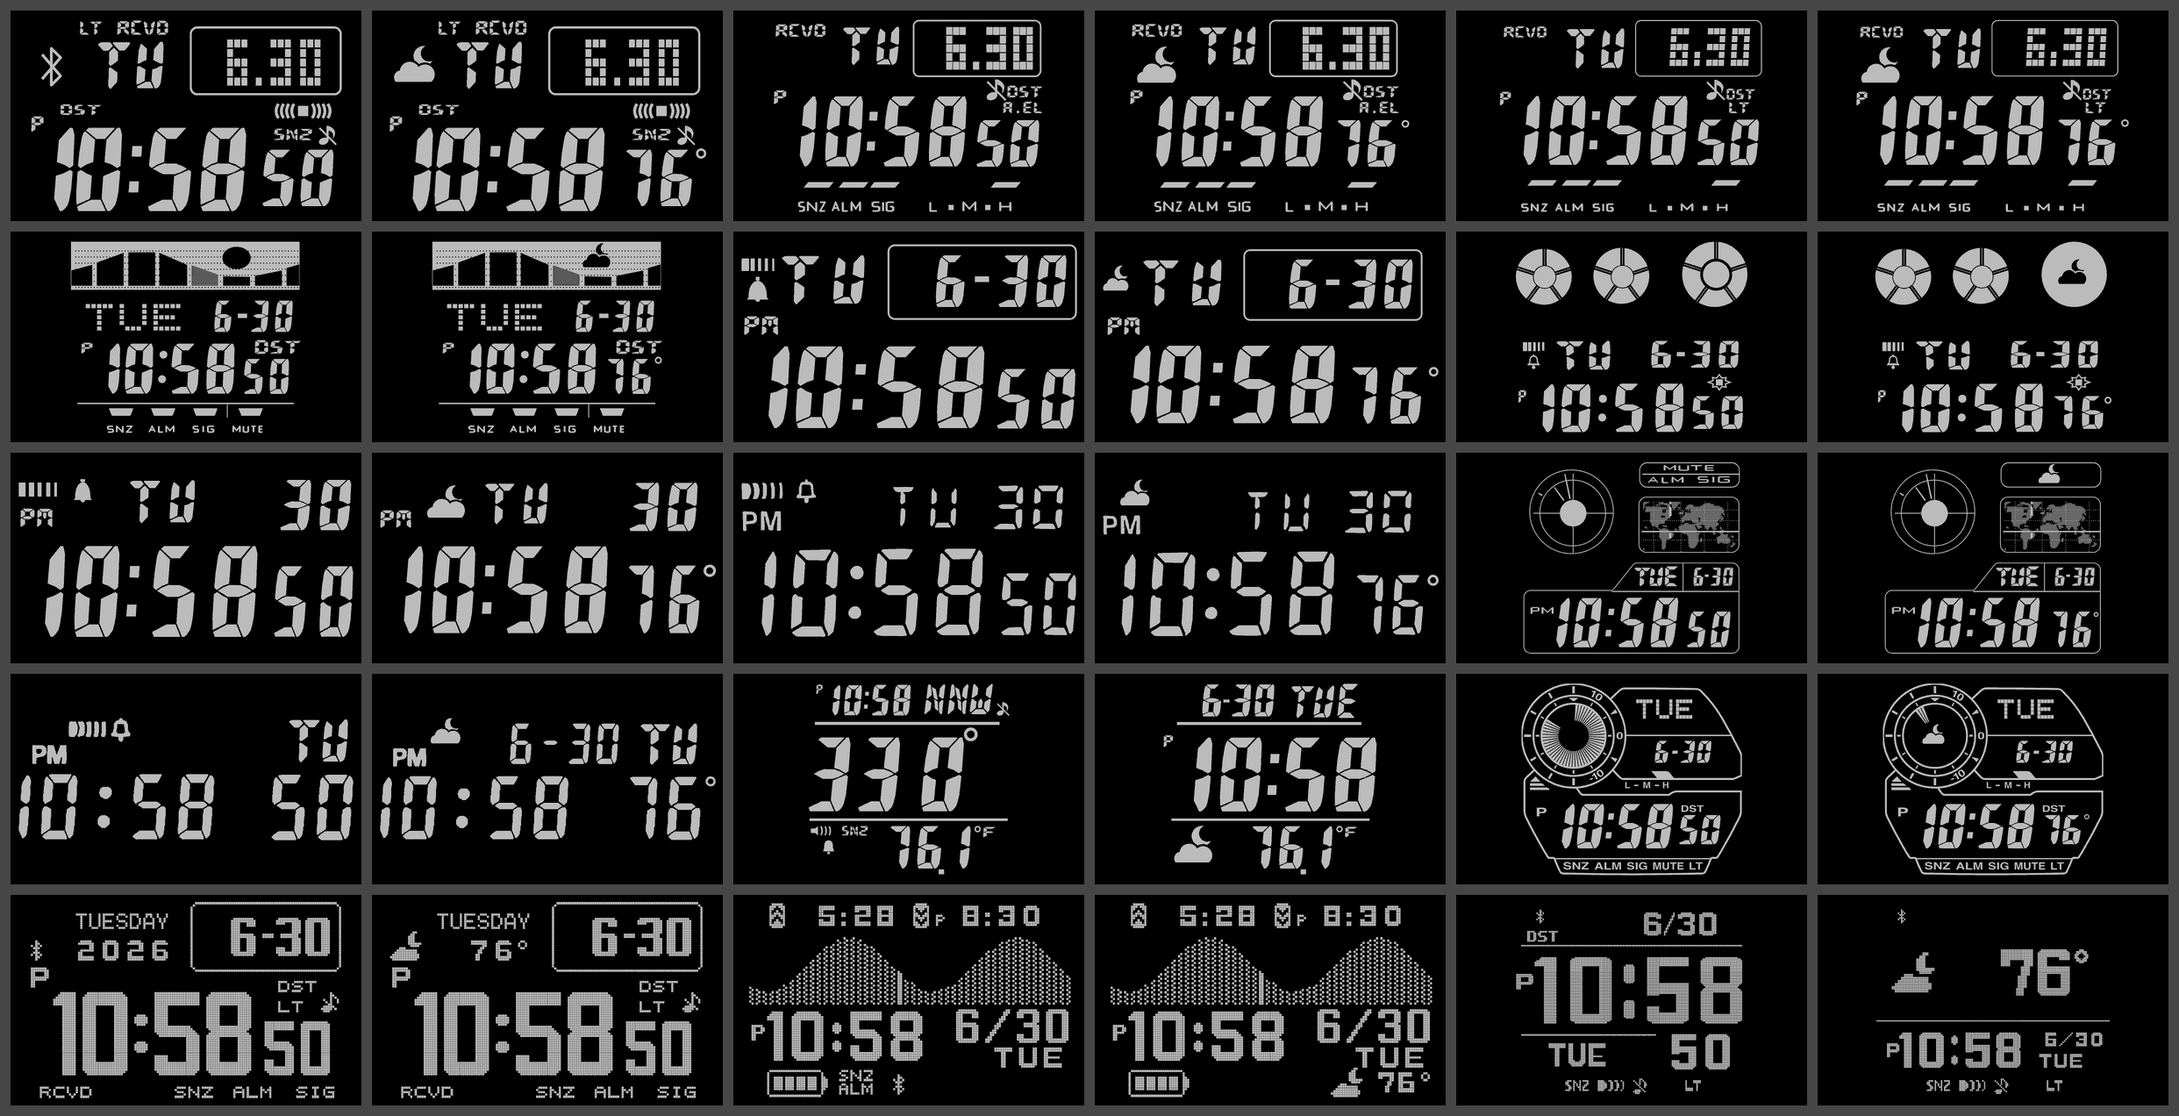
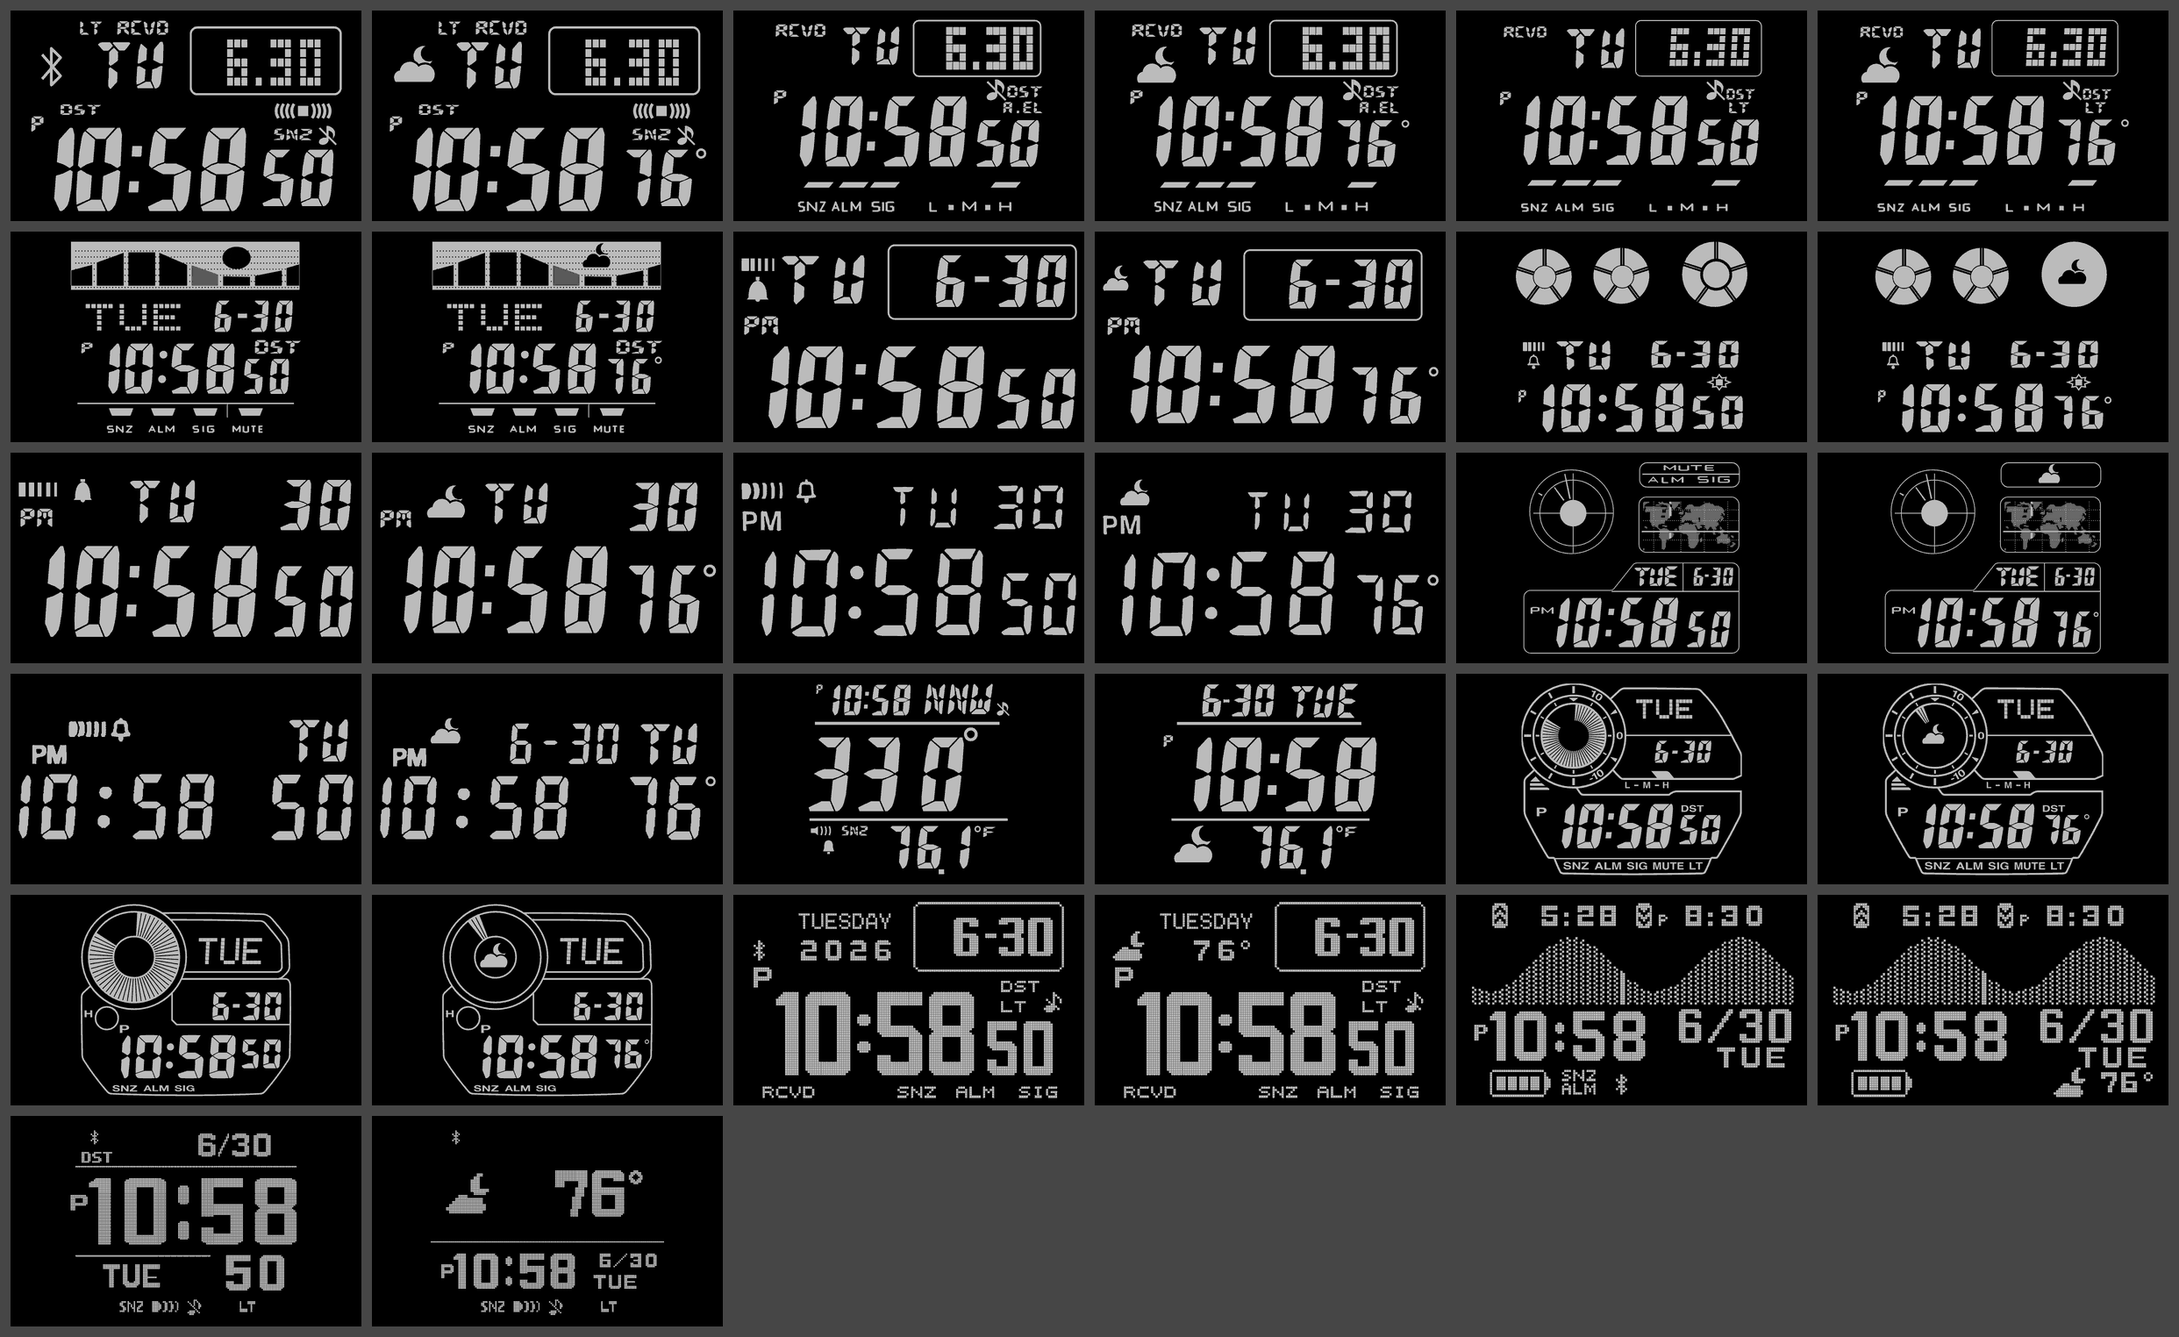
3445
Claude-Session: https://claude.ai/code/session_01WrLPH9CSGwuJCbw1xzJHza

diff --git a/index.html b/index.html
@@ -36,9 +36,9 @@ small { display: block; color: var(--muted); }
 <p>Every face of the LCD Watch plugin for TRMNL, by its name in the Watch Face setting. Fully digital watches only,
 no analog-digital ones. Switch Weather on to see each watch's
 weather face (TRMNL), which adds the weather in the watch's own style.</p>
-<figure class="sheet" data-lcd="all-faces.png" data-inv="all-faces-inverted.png"><img class="all" src="all-faces.png" alt="Every LCD Watch face" width="2484" height="1272"></figure>
+<figure class="sheet" data-lcd="all-faces.png" data-inv="all-faces-inverted.png"><img class="all" src="all-faces.png" alt="Every LCD Watch face" width="2484" height="1524"></figure>
 <div class="switches"><div class="toggle" role="group" aria-label="Display"><button type="button" data-key="display" data-value="lcd">LCD</button><button type="button" data-key="display" data-value="inv">Inverted</button></div><div class="toggle" role="group" aria-label="Weather"><button type="button" data-key="weather" data-value="off">No weather</button><button type="button" data-key="weather" data-value="on">Weather</button></div></div>
-<div class="grid"><figure data-lcd="screens/watch-3459.png" data-inv="screens/watch-3459-inverted.png" data-label="3459 · Modern square (2018)" data-wlcd="screens/watch-3459-TRMNL.png" data-winv="screens/watch-3459-TRMNL-inverted.png" data-wlabel="3459-TRMNL · Modern square with weather"><img src="screens/watch-3459.png" alt="3459 · Modern square (2018)" loading="lazy" width="400" height="240"><figcaption><span class="label">3459 · Modern square (2018)</span></figcaption></figure><figure data-lcd="screens/watch-3159.png" data-inv="screens/watch-3159-inverted.png" data-label="3159 · Solar square (2012)" data-wlcd="screens/watch-3159-TRMNL.png" data-winv="screens/watch-3159-TRMNL-inverted.png" data-wlabel="3159-TRMNL · Solar square with weather"><img src="screens/watch-3159.png" alt="3159 · Solar square (2012)" loading="lazy" width="400" height="240"><figcaption><span class="label">3159 · Solar square (2012)</span></figcaption></figure><figure data-lcd="screens/watch-3495.png" data-inv="screens/watch-3495-inverted.png" data-label="3495 · Solar square, six languages (2021)" data-wlcd="screens/watch-3495-TRMNL.png" data-winv="screens/watch-3495-TRMNL-inverted.png" data-wlabel="3495-TRMNL · Solar square, six languages, with weather"><img src="screens/watch-3495.png" alt="3495 · Solar square, six languages (2021)" loading="lazy" width="400" height="240"><figcaption><span class="label">3495 · Solar square, six languages (2021)</span></figcaption></figure><figure data-lcd="screens/watch-3559.png" data-inv="screens/watch-3559-inverted.png" data-label="3559 · Surf, tide and moon (2023)" data-wlcd="screens/watch-3559-TRMNL.png" data-winv="screens/watch-3559-TRMNL-inverted.png" data-wlabel="3559-TRMNL · Surf, tide and weather"><img src="screens/watch-3559.png" alt="3559 · Surf, tide and moon (2023)" loading="lazy" width="400" height="240"><figcaption><span class="label">3559 · Surf, tide and moon (2023)</span></figcaption></figure><figure data-lcd="screens/watch-3229.png" data-inv="screens/watch-3229-inverted.png" data-label="3229 · Classic square (2010)" data-wlcd="screens/watch-3229-TRMNL.png" data-winv="screens/watch-3229-TRMNL-inverted.png" data-wlabel="3229-TRMNL · Classic square with weather"><img src="screens/watch-3229.png" alt="3229 · Classic square (2010)" loading="lazy" width="400" height="240"><figcaption><span class="label">3229 · Classic square (2010)</span></figcaption></figure><figure data-lcd="screens/watch-3529.png" data-inv="screens/watch-3529-inverted.png" data-label="3529 · Round, three eyes (2023)" data-wlcd="screens/watch-3529-TRMNL.png" data-winv="screens/watch-3529-TRMNL-inverted.png" data-wlabel="3529-TRMNL · Round, three eyes, with weather"><img src="screens/watch-3529.png" alt="3529 · Round, three eyes (2023)" loading="lazy" width="400" height="240"><figcaption><span class="label">3529 · Round, three eyes (2023)</span></figcaption></figure><figure data-lcd="screens/watch-593.png" data-inv="screens/watch-593-inverted.png" data-label="593 · Slim retro (1989)" data-wlcd="screens/watch-593-TRMNL.png" data-winv="screens/watch-593-TRMNL-inverted.png" data-wlabel="593-TRMNL · Slim retro with weather"><img src="screens/watch-593.png" alt="593 · Slim retro (1989)" loading="lazy" width="400" height="240"><figcaption><span class="label">593 · Slim retro (1989)</span></figcaption></figure><figure data-lcd="screens/watch-3298.png" data-inv="screens/watch-3298-inverted.png" data-label="3298 · Retro steel square (2012)" data-wlcd="screens/watch-3298-TRMNL.png" data-winv="screens/watch-3298-TRMNL-inverted.png" data-wlabel="3298-TRMNL · Retro steel square with weather"><img src="screens/watch-3298.png" alt="3298 · Retro steel square (2012)" loading="lazy" width="400" height="240"><figcaption><span class="label">3298 · Retro steel square (2012)</span></figcaption></figure><figure data-lcd="screens/watch-3299.png" data-inv="screens/watch-3299-inverted.png" data-label="3299 · World time with map (2012)" data-wlcd="screens/watch-3299-TRMNL.png" data-winv="screens/watch-3299-TRMNL-inverted.png" data-wlabel="3299-TRMNL · World time with map and weather"><img src="screens/watch-3299.png" alt="3299 · World time with map (2012)" loading="lazy" width="400" height="240"><figcaption><span class="label">3299 · World time with map (2012)</span></figcaption></figure><figure data-lcd="screens/watch-3208.png" data-inv="screens/watch-3208-inverted.png" data-label="3208 · Calculator (1988)" data-wlcd="screens/watch-3208-TRMNL.png" data-winv="screens/watch-3208-TRMNL-inverted.png" data-wlabel="3208-TRMNL · Calculator with weather"><img src="screens/watch-3208.png" alt="3208 · Calculator (1988)" loading="lazy" width="400" height="240"><figcaption><span class="label">3208 · Calculator (1988)</span></figcaption></figure><figure data-lcd="screens/watch-3157.png" data-inv="screens/watch-3157-inverted.png" data-label="3157 · Outdoor, compass and thermometer (2008)" data-wlcd="screens/watch-3157-TRMNL.png" data-winv="screens/watch-3157-TRMNL-inverted.png" data-wlabel="3157-TRMNL · Outdoor, date, time and weather"><img src="screens/watch-3157.png" alt="3157 · Outdoor, compass and thermometer (2008)" loading="lazy" width="400" height="240"><figcaption><span class="label">3157 · Outdoor, compass and thermometer (2008)</span></figcaption></figure><figure data-lcd="screens/watch-3410.png" data-inv="screens/watch-3410-inverted.png" data-label="3410 · Triple sensor, graphic dial (2013)" data-wlcd="screens/watch-3410-TRMNL.png" data-winv="screens/watch-3410-TRMNL-inverted.png" data-wlabel="3410-TRMNL · Triple sensor, weather in the dial"><img src="screens/watch-3410.png" alt="3410 · Triple sensor, graphic dial (2013)" loading="lazy" width="400" height="240"><figcaption><span class="label">3410 · Triple sensor, graphic dial (2013)</span></figcaption></figure><figure data-lcd="screens/watch-3575.png" data-inv="screens/watch-3575-inverted.png" data-label="3575 / 3578 · Dot matrix (2025)" data-wlcd="screens/type-c-weather.png" data-winv="screens/type-c-weather-inverted.png" data-wlabel="3575 / 3578 · Dot matrix (2025), Weather on"><img src="screens/watch-3575.png" alt="3575 / 3578 · Dot matrix (2025)" loading="lazy" width="400" height="240"><figcaption><span class="label">3575 / 3578 · Dot matrix (2025)</span></figcaption></figure><figure data-lcd="screens/watch-3586.png" data-inv="screens/watch-3586-inverted.png" data-label="3586 · Dot matrix, tide and sun (2026)" data-wlcd="screens/watch-3586-TRMNL.png" data-winv="screens/watch-3586-TRMNL-inverted.png" data-wlabel="3586-TRMNL · Dot matrix, tide and weather"><img src="screens/watch-3586.png" alt="3586 · Dot matrix, tide and sun (2026)" loading="lazy" width="400" height="240"><figcaption><span class="label">3586 · Dot matrix, tide and sun (2026)</span></figcaption></figure><figure data-lcd="screens/watch-3506.png" data-inv="screens/watch-3506-inverted.png" data-label="3506 · Dot matrix, sport square (2021)" data-wlcd="screens/watch-3506-TRMNL.png" data-winv="screens/watch-3506-TRMNL-inverted.png" data-wlabel="3506-TRMNL · Dot matrix, sport square with weather"><img src="screens/watch-3506.png" alt="3506 · Dot matrix, sport square (2021)" loading="lazy" width="400" height="240"><figcaption><span class="label">3506 · Dot matrix, sport square (2021)</span></figcaption></figure></div>
+<div class="grid"><figure data-lcd="screens/watch-3459.png" data-inv="screens/watch-3459-inverted.png" data-label="3459 · Modern square (2018)" data-wlcd="screens/watch-3459-TRMNL.png" data-winv="screens/watch-3459-TRMNL-inverted.png" data-wlabel="3459-TRMNL · Modern square with weather"><img src="screens/watch-3459.png" alt="3459 · Modern square (2018)" loading="lazy" width="400" height="240"><figcaption><span class="label">3459 · Modern square (2018)</span></figcaption></figure><figure data-lcd="screens/watch-3159.png" data-inv="screens/watch-3159-inverted.png" data-label="3159 · Solar square (2012)" data-wlcd="screens/watch-3159-TRMNL.png" data-winv="screens/watch-3159-TRMNL-inverted.png" data-wlabel="3159-TRMNL · Solar square with weather"><img src="screens/watch-3159.png" alt="3159 · Solar square (2012)" loading="lazy" width="400" height="240"><figcaption><span class="label">3159 · Solar square (2012)</span></figcaption></figure><figure data-lcd="screens/watch-3495.png" data-inv="screens/watch-3495-inverted.png" data-label="3495 · Solar square, six languages (2021)" data-wlcd="screens/watch-3495-TRMNL.png" data-winv="screens/watch-3495-TRMNL-inverted.png" data-wlabel="3495-TRMNL · Solar square, six languages, with weather"><img src="screens/watch-3495.png" alt="3495 · Solar square, six languages (2021)" loading="lazy" width="400" height="240"><figcaption><span class="label">3495 · Solar square, six languages (2021)</span></figcaption></figure><figure data-lcd="screens/watch-3559.png" data-inv="screens/watch-3559-inverted.png" data-label="3559 · Surf, tide and moon (2023)" data-wlcd="screens/watch-3559-TRMNL.png" data-winv="screens/watch-3559-TRMNL-inverted.png" data-wlabel="3559-TRMNL · Surf, tide and weather"><img src="screens/watch-3559.png" alt="3559 · Surf, tide and moon (2023)" loading="lazy" width="400" height="240"><figcaption><span class="label">3559 · Surf, tide and moon (2023)</span></figcaption></figure><figure data-lcd="screens/watch-3229.png" data-inv="screens/watch-3229-inverted.png" data-label="3229 · Classic square (2010)" data-wlcd="screens/watch-3229-TRMNL.png" data-winv="screens/watch-3229-TRMNL-inverted.png" data-wlabel="3229-TRMNL · Classic square with weather"><img src="screens/watch-3229.png" alt="3229 · Classic square (2010)" loading="lazy" width="400" height="240"><figcaption><span class="label">3229 · Classic square (2010)</span></figcaption></figure><figure data-lcd="screens/watch-3529.png" data-inv="screens/watch-3529-inverted.png" data-label="3529 · Round, three eyes (2023)" data-wlcd="screens/watch-3529-TRMNL.png" data-winv="screens/watch-3529-TRMNL-inverted.png" data-wlabel="3529-TRMNL · Round, three eyes, with weather"><img src="screens/watch-3529.png" alt="3529 · Round, three eyes (2023)" loading="lazy" width="400" height="240"><figcaption><span class="label">3529 · Round, three eyes (2023)</span></figcaption></figure><figure data-lcd="screens/watch-593.png" data-inv="screens/watch-593-inverted.png" data-label="593 · Slim retro (1989)" data-wlcd="screens/watch-593-TRMNL.png" data-winv="screens/watch-593-TRMNL-inverted.png" data-wlabel="593-TRMNL · Slim retro with weather"><img src="screens/watch-593.png" alt="593 · Slim retro (1989)" loading="lazy" width="400" height="240"><figcaption><span class="label">593 · Slim retro (1989)</span></figcaption></figure><figure data-lcd="screens/watch-3298.png" data-inv="screens/watch-3298-inverted.png" data-label="3298 · Retro steel square (2012)" data-wlcd="screens/watch-3298-TRMNL.png" data-winv="screens/watch-3298-TRMNL-inverted.png" data-wlabel="3298-TRMNL · Retro steel square with weather"><img src="screens/watch-3298.png" alt="3298 · Retro steel square (2012)" loading="lazy" width="400" height="240"><figcaption><span class="label">3298 · Retro steel square (2012)</span></figcaption></figure><figure data-lcd="screens/watch-3299.png" data-inv="screens/watch-3299-inverted.png" data-label="3299 · World time with map (2012)" data-wlcd="screens/watch-3299-TRMNL.png" data-winv="screens/watch-3299-TRMNL-inverted.png" data-wlabel="3299-TRMNL · World time with map and weather"><img src="screens/watch-3299.png" alt="3299 · World time with map (2012)" loading="lazy" width="400" height="240"><figcaption><span class="label">3299 · World time with map (2012)</span></figcaption></figure><figure data-lcd="screens/watch-3208.png" data-inv="screens/watch-3208-inverted.png" data-label="3208 · Calculator (1988)" data-wlcd="screens/watch-3208-TRMNL.png" data-winv="screens/watch-3208-TRMNL-inverted.png" data-wlabel="3208-TRMNL · Calculator with weather"><img src="screens/watch-3208.png" alt="3208 · Calculator (1988)" loading="lazy" width="400" height="240"><figcaption><span class="label">3208 · Calculator (1988)</span></figcaption></figure><figure data-lcd="screens/watch-3157.png" data-inv="screens/watch-3157-inverted.png" data-label="3157 · Outdoor, compass and thermometer (2008)" data-wlcd="screens/watch-3157-TRMNL.png" data-winv="screens/watch-3157-TRMNL-inverted.png" data-wlabel="3157-TRMNL · Outdoor, date, time and weather"><img src="screens/watch-3157.png" alt="3157 · Outdoor, compass and thermometer (2008)" loading="lazy" width="400" height="240"><figcaption><span class="label">3157 · Outdoor, compass and thermometer (2008)</span></figcaption></figure><figure data-lcd="screens/watch-3410.png" data-inv="screens/watch-3410-inverted.png" data-label="3410 · Triple sensor, graphic dial (2013)" data-wlcd="screens/watch-3410-TRMNL.png" data-winv="screens/watch-3410-TRMNL-inverted.png" data-wlabel="3410-TRMNL · Triple sensor, weather in the dial"><img src="screens/watch-3410.png" alt="3410 · Triple sensor, graphic dial (2013)" loading="lazy" width="400" height="240"><figcaption><span class="label">3410 · Triple sensor, graphic dial (2013)</span></figcaption></figure><figure data-lcd="screens/watch-3445.png" data-inv="screens/watch-3445-inverted.png" data-label="3445 · Diver, graphic dial and Moon (2016)" data-wlcd="screens/watch-3445-TRMNL.png" data-winv="screens/watch-3445-TRMNL-inverted.png" data-wlabel="3445-TRMNL · Diver, weather in the dial"><img src="screens/watch-3445.png" alt="3445 · Diver, graphic dial and Moon (2016)" loading="lazy" width="400" height="240"><figcaption><span class="label">3445 · Diver, graphic dial and Moon (2016)</span></figcaption></figure><figure data-lcd="screens/watch-3575.png" data-inv="screens/watch-3575-inverted.png" data-label="3575 / 3578 · Dot matrix (2025)" data-wlcd="screens/type-c-weather.png" data-winv="screens/type-c-weather-inverted.png" data-wlabel="3575 / 3578 · Dot matrix (2025), Weather on"><img src="screens/watch-3575.png" alt="3575 / 3578 · Dot matrix (2025)" loading="lazy" width="400" height="240"><figcaption><span class="label">3575 / 3578 · Dot matrix (2025)</span></figcaption></figure><figure data-lcd="screens/watch-3586.png" data-inv="screens/watch-3586-inverted.png" data-label="3586 · Dot matrix, tide and sun (2026)" data-wlcd="screens/watch-3586-TRMNL.png" data-winv="screens/watch-3586-TRMNL-inverted.png" data-wlabel="3586-TRMNL · Dot matrix, tide and weather"><img src="screens/watch-3586.png" alt="3586 · Dot matrix, tide and sun (2026)" loading="lazy" width="400" height="240"><figcaption><span class="label">3586 · Dot matrix, tide and sun (2026)</span></figcaption></figure><figure data-lcd="screens/watch-3506.png" data-inv="screens/watch-3506-inverted.png" data-label="3506 · Dot matrix, sport square (2021)" data-wlcd="screens/watch-3506-TRMNL.png" data-winv="screens/watch-3506-TRMNL-inverted.png" data-wlabel="3506-TRMNL · Dot matrix, sport square with weather"><img src="screens/watch-3506.png" alt="3506 · Dot matrix, sport square (2021)" loading="lazy" width="400" height="240"><figcaption><span class="label">3506 · Dot matrix, sport square (2021)</span></figcaption></figure></div>
 <h2>Display</h2>
 <p>How the screen is drawn, on any face.</p>
 <div class="grid"><figure data-lcd="screens/display-lcd.png" data-inv="screens/display-lcd.png" data-label="LCD (light gray)" data-wlcd="screens/display-lcd-weather.png" data-winv="screens/display-lcd-weather.png" data-wlabel="LCD (light gray), with weather"><img src="screens/display-lcd.png" alt="LCD (light gray)" loading="lazy" width="400" height="240"><figcaption><span class="label">LCD (light gray)</span></figcaption></figure><figure data-lcd="screens/display-paper.png" data-inv="screens/display-paper.png" data-label="White" data-wlcd="screens/display-paper-weather.png" data-winv="screens/display-paper-weather.png" data-wlabel="White, with weather"><img src="screens/display-paper.png" alt="White" loading="lazy" width="400" height="240"><figcaption><span class="label">White</span></figcaption></figure><figure data-lcd="screens/display-inverted.png" data-inv="screens/display-inverted.png" data-label="Dark, gray digits" data-wlcd="screens/display-inverted-weather.png" data-winv="screens/display-inverted-weather.png" data-wlabel="Dark, gray digits, with weather"><img src="screens/display-inverted.png" alt="Dark, gray digits" loading="lazy" width="400" height="240"><figcaption><span class="label">Dark, gray digits</span></figcaption></figure><figure data-lcd="screens/display-inverted_white.png" data-inv="screens/display-inverted_white.png" data-label="Dark, white digits" data-wlcd="screens/display-inverted_white-weather.png" data-winv="screens/display-inverted_white-weather.png" data-wlabel="Dark, white digits, with weather"><img src="screens/display-inverted_white.png" alt="Dark, white digits" loading="lazy" width="400" height="240"><figcaption><span class="label">Dark, white digits</span></figcaption></figure></div>
